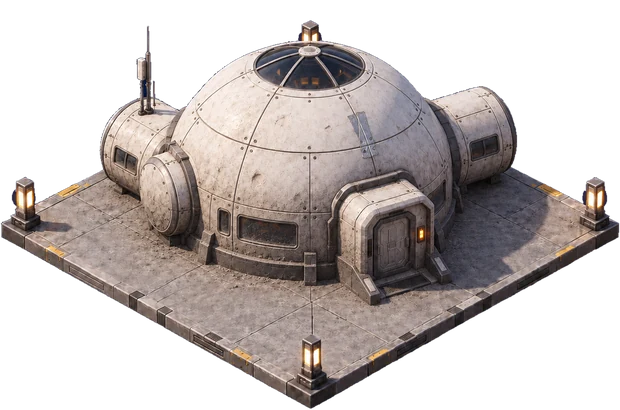
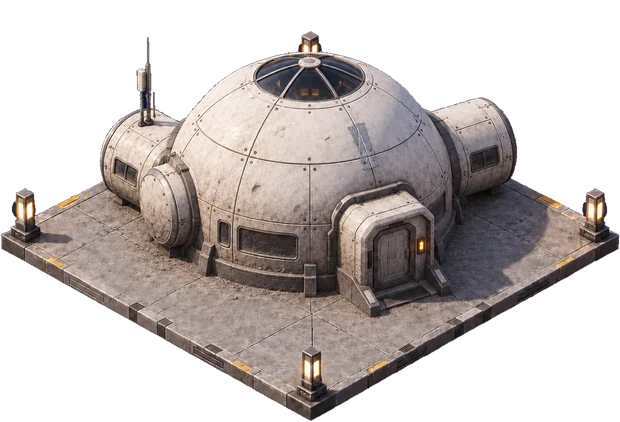
Moon set 20% bigger, cooled to the Moon's grey, habitat and reactor nights
The art on the cargo pad's platform (the pad, the lander, the new
buildings) goes from scale 0.38 to 0.456, a fifth of the slab. Its day
images are cooled by MOON_LIGHT, measured from the tan tiles and the grey
ground. The habitat's three stages and the reactor now have night images;
the other Moon buildings are still dimmed at night.

Changed region(s): [[0.0, 0.0293, 1.0, 0.9659], [0.2145, 0.0585, 0.2452, 0.0878]]

diff --git a/src/ui/BaseView.tsx b/src/ui/BaseView.tsx
@@ -120,7 +120,13 @@ interface Sprite {
   single?: boolean // one image, no separate night art
   scale?: number // when the image was shipped at a different size
   glint?: string // the solar cells alone, where the sunlight glint may fall
+  daylight?: string // a filter for the day image: the world's light (MOON_LIGHT)
 }
+// The scale of the art built on the cargo pad (the pad itself, the lander,
+// the second set of buildings): its platform is drawn about 280 units wide,
+// a fifth of the slab.
+const MOON_SET_SCALE = 0.456
+
 const SPRITES: Record<Exclude<PadId, 'landing'> | 'isru' | 'landerPad' | 'landerPod', Sprite> = {
   habitat: { name: 'habitat', px: [539, 419], anchor: [0.519, 0.57] },
   reactor: { name: 'reactor', px: [393, 423], anchor: [0.496, 0.738] },
@@ -132,28 +138,38 @@ const SPRITES: Record<Exclude<PadId, 'landing'> | 'isru' | 'landerPad' | 'lander
   isru: { name: 'co2maker', px: [515, 339], anchor: [0.538, 0.519], single: true },
   // The cargo pad and the lander on it share one image box (art/process.py
   // lines them up), anchored on the landing circle's centre.
-  landerPad: { name: 'lander-pad', px: [619, 482], anchor: [0.501, 0.622], single: true, scale: 0.38 },
-  landerPod: { name: 'lander-pod', px: [619, 482], anchor: [0.501, 0.622], single: true, scale: 0.38 },
+  landerPad: { name: 'lander-pad', px: [619, 482], anchor: [0.501, 0.622], single: true, scale: MOON_SET_SCALE },
+  landerPod: { name: 'lander-pod', px: [619, 482], anchor: [0.501, 0.622], single: true, scale: MOON_SET_SCALE },
 }
+
+// Moon daylight, for the art built on the cargo pad. The generator painted
+// the pad's stone warm and tan, and the Moon's ground is a cool grey, so
+// the platforms looked laid on the map rather than set in it. Measured on
+// both: the plain tiles average rgb(162, 148, 143) and the open ground
+// rgb(140, 141, 150). This moves the art three quarters of the way from
+// the one colour to the other at the same brightness: red down a little,
+// blue up. Night images are lamp-lit, so they keep their warm light.
+const MOON_LIGHT = '0.94 0 0 0 0  0 1.01 0 0 0  0 0 1.09 0 0  0 0 0 1 0'
 
 // The second set of buildings (art/ART-GUIDE.md), on the Moon so far; Mars
 // keeps the first set until its own comes. Each is built on a copy of the
 // cargo pad's platform, so all share the pad's scale, and art/process.py
-// cuts a building's stages to one box, so they share a size and anchor.
-// No night images yet: at night each is dimmed like the ground.
+// cuts a building's stages and its day and night to one box, so they share
+// a size and anchor. A building with no night image yet is dimmed at night
+// like the ground.
 type BuildingId = 'habitat' | 'solar' | 'reactor' | 'greenhouse' | 'lab'
-const MOON_SET: Record<BuildingId, Pick<Sprite, 'px' | 'anchor'>> = {
-  habitat: { px: [620, 410], anchor: [0.501, 0.554] },
-  solar: { px: [620, 366], anchor: [0.501, 0.501] },
-  reactor: { px: [619, 461], anchor: [0.501, 0.604] },
-  greenhouse: { px: [619, 364], anchor: [0.501, 0.499] },
-  lab: { px: [619, 410], anchor: [0.501, 0.553] },
+const MOON_SET: Record<BuildingId, Pick<Sprite, 'px' | 'anchor'> & { night: boolean }> = {
+  habitat: { px: [620, 422], anchor: [0.501, 0.566], night: true },
+  solar: { px: [620, 366], anchor: [0.501, 0.501], night: false },
+  reactor: { px: [619, 470], anchor: [0.501, 0.612], night: true },
+  greenhouse: { px: [619, 364], anchor: [0.501, 0.499], night: false },
+  lab: { px: [619, 410], anchor: [0.501, 0.553], night: false },
 }
 
 // Two buildings change with the game: the habitat shows the base's
 // condition, and the solar field gains rows of panels as it is built.
 // Where the stages change is a display choice, not a game rule; damaged
-// starts where the habitat's label turns amber (see \`worn\` below).
+// starts where the habitat's label turns amber (see `worn` below).
 function habitatStage(condition: number) {
   return condition >= 0.85 ? 'good' : condition >= 0.6 ? 'worn' : 'damaged'
 }
@@ -165,7 +181,11 @@ function solarStage(game: GameState) {
 
 function buildingSprites(game: GameState): Record<BuildingId, Sprite> {
   if (game.scenario.id !== 'moon') return SPRITES
-  const moon = (id: BuildingId, file: string): Sprite => ({ name: `moon/${file}-day`, ...MOON_SET[id], single: true, scale: 0.38 })
+  const moon = (id: BuildingId, file: string): Sprite => {
+    const { px, anchor, night } = MOON_SET[id]
+    const name = night ? `moon/${file}` : `moon/${file}-day`
+    return { name, px, anchor, single: !night, scale: MOON_SET_SCALE, daylight: 'url(#moon-light)' }
+  }
   const solar = `solar-${solarStage(game)}`
   return {
     habitat: moon('habitat', `habitat-${habitatStage(game.facilities.condition)}`),
@@ -209,7 +229,7 @@ function Building({ terrain, pad, sprite, night, status = 'on', flicker = false 
   const cls = [status === 'shed' ? 'shed-pulse' : '', flicker ? 'flicker-out' : ''].filter(Boolean).join(' ')
   return (
     <g className={cls || undefined} style={{ filter }}>
-      <image href={art(sprite, 'day')} {...box} style={{ opacity: night ? 0 : 1, transition: 'opacity 1.2s' }} />
+      <image href={art(sprite, 'day')} {...box} filter={sprite.daylight} style={{ opacity: night ? 0 : 1, transition: 'opacity 1.2s' }} />
       <g className={night ? 'night-breathe' : undefined}>
         <image href={art(sprite, 'night')} {...box} filter={sprite.single ? 'url(#night-dim)' : undefined} style={{ opacity: night ? 1 : 0, transition: 'opacity 1.2s' }} />
       </g>
@@ -328,7 +348,7 @@ function CargoPad({ terrain, night, landing }: { terrain: Terrain; night: boolea
   })
   return (
     <g filter={night ? 'url(#night-dim)' : undefined}>
-      <image href={`${ART}/buildings/lander-pad.webp`} {...box} />
+      <image href={`${ART}/buildings/lander-pad.webp`} {...box} filter="url(#moon-light)" />
       <ellipse className={landing ? 'lander-shadow' : undefined} cx={centre.x} cy={centre.y} rx={125 * k} ry={60 * k} fill="#020617" opacity={0.45} />
       {landing && (
         <g transform={`translate(${centre.x}, ${centre.y})`}>
@@ -348,7 +368,7 @@ function CargoPad({ terrain, night, landing }: { terrain: Terrain; night: boolea
             fill="#fde68a"
           />
         )}
-        <image href={`${ART}/buildings/lander-pod.webp`} {...box} />
+        <image href={`${ART}/buildings/lander-pod.webp`} {...box} filter="url(#moon-light)" />
       </g>
     </g>
   )
@@ -492,6 +512,9 @@ export function BaseView({ game, decisions, effects }: { game: GameState; decisi
         </mask>
         <filter id="mars-light" colorInterpolationFilters="sRGB">
           <feColorMatrix type="matrix" values={MARS_LIGHT} />
+        </filter>
+        <filter id="moon-light" colorInterpolationFilters="sRGB">
+          <feColorMatrix type="matrix" values={MOON_LIGHT} />
         </filter>
         {/* Night for art that has no night version: what the night overlay
             does to the ground (a 55% multiply by #0a1433). */}

diff --git a/art/ART-GUIDE.md b/art/ART-GUIDE.md
@@ -46,6 +46,10 @@ building**: each building prompt below starts from it (see Buildings).
 - Sun from the **upper left**. Left-facing walls and the slab's left cliff
   face are lit; right-facing walls and the right cliff face are in shade.
   Short shadows fall to the **lower right**.
+- The Moon art built on the cargo pad came out a warm tan, on a cool grey
+  map, so the game cools its day images slightly (`MOON_LIGHT` in
+  `src/ui/BaseView.tsx`, measured from both). Night images are left as
+  they are: they are lamp-lit, and lamplight is warm.
 - Each world's buildings are painted in **that world's light**, the same
   light its map is painted in: harsh, clear light with crisp shadows on
   the Moon; warm light with Mars's butterscotch cast and softer shadows on
@@ -523,11 +527,21 @@ on the tiles.
 
 [THE BUILDING'S NIGHT LINE]
 
-Everything the lights do not reach falls into cool, dark blue shade.
+Everything the lights do not reach falls into cool, dark blue shade: as
+dark overall as a moonless night, with the platform lit only in small
+pools right around each lamp post and nearly black-blue away from them.
 Same style as the reference. Background: a single flat solid colour,
 #0C1633 dark navy, filling the whole frame. No gradient, no glow on the
 background.
 ```
+
+How dark: the game darkens the ground at night to about half its day
+brightness, with a blue cast, so a night image has to be at least that
+dark to sit on it. The habitat's night images are right (their plain
+platform tiles average about rgb(53, 52, 68)); the first reactor night
+image came out twice as bright (about rgb(106, 93, 94)) and glows on the
+dark map. The last sentence of the first paragraph above is there
+because of it.
 
 The night lines:
 
